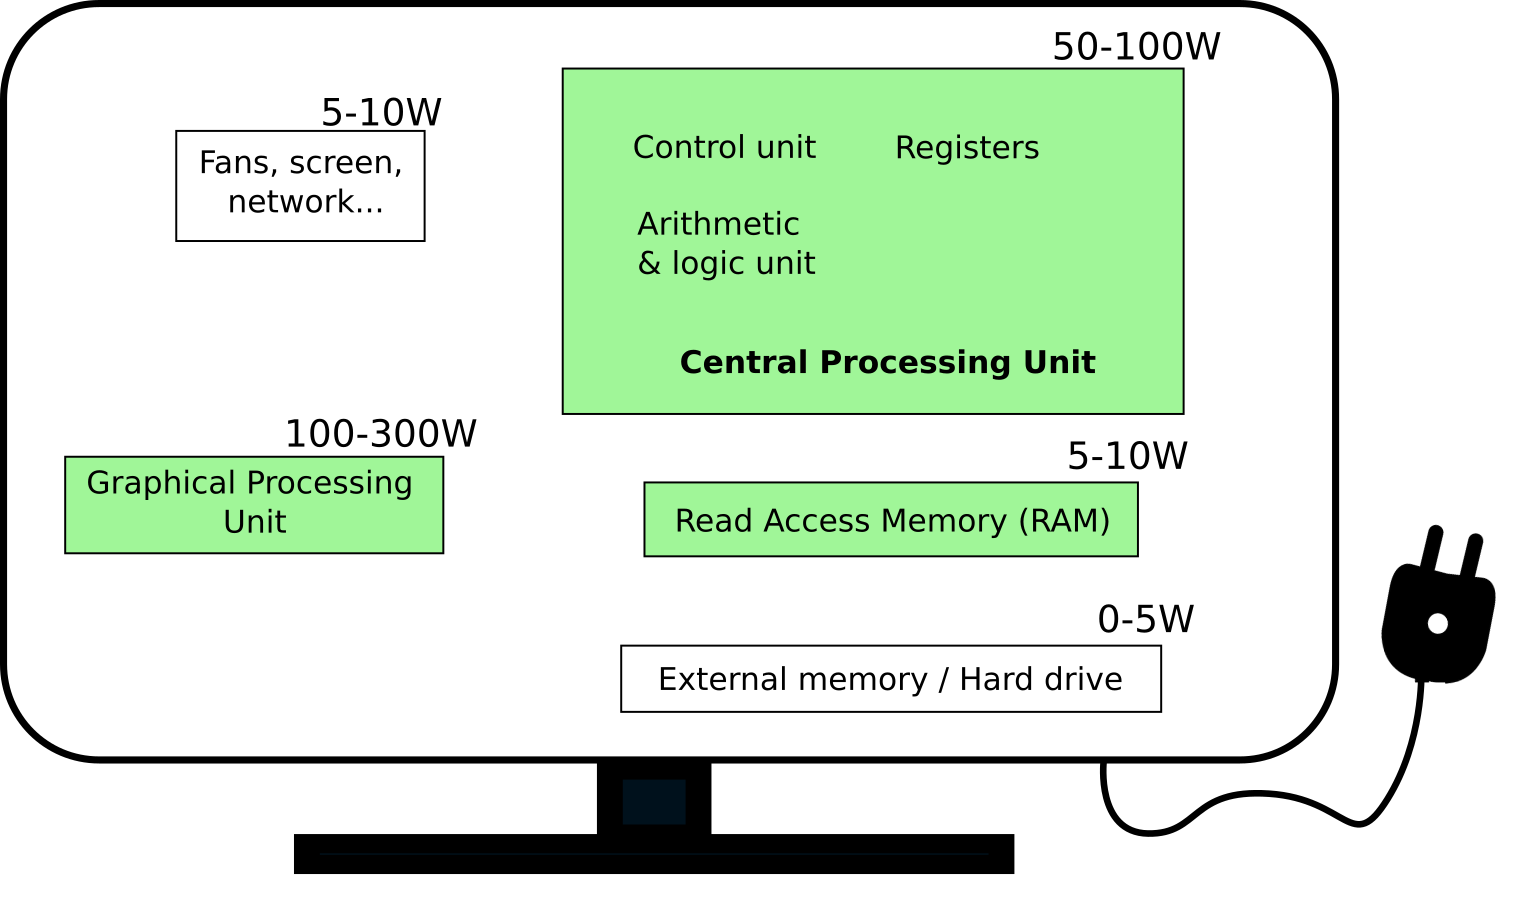
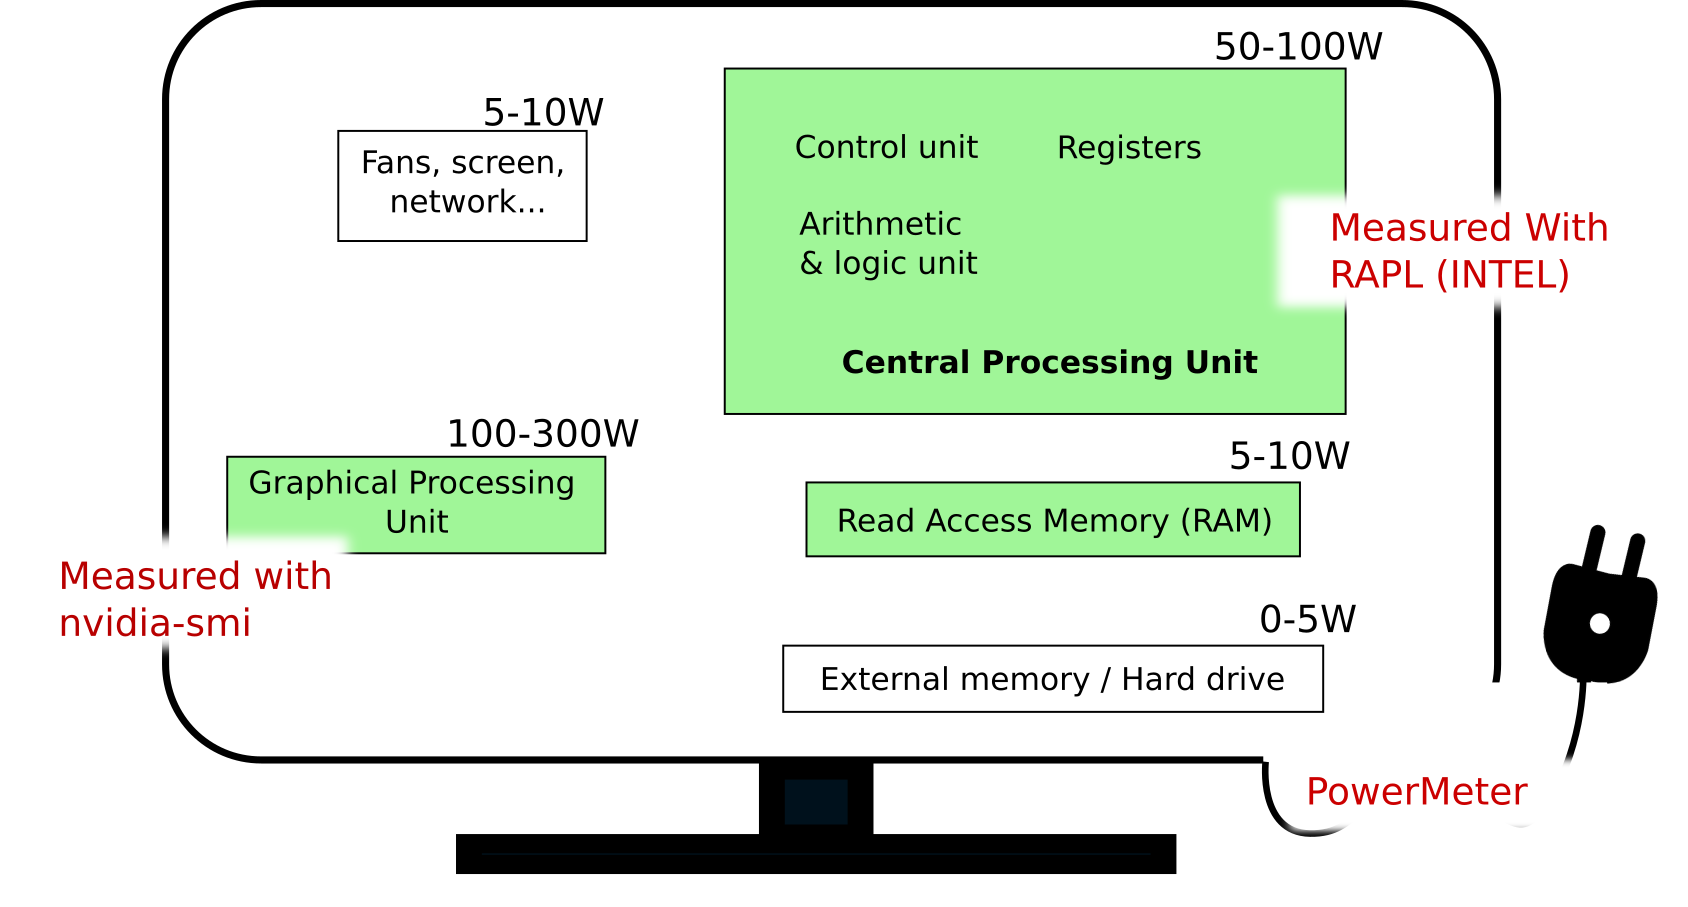
adding new image on background

diff --git a/docsrc/background/background.rst b/docsrc/background/background.rst
@@ -3,6 +3,8 @@ Background on power measure
 
 This section provide general information on monitoring power on computers.
 
+In short, RAPL measure the cpu, nvidia-smi the gpu, and other parts (fans, harddrive) are not accessible.
+
 General considerations
 ----------------------
 
@@ -63,7 +65,7 @@ GPU and nvidia-smi
 GPU are good for single instruction multiple data situations where they can parallelize on their numerous streaming processors
 
 
-Regardin power measurements, things are more simple with nvidia-smi, unfortunately, the reason for this is because we have much less information.
+Regarding power measurements, things are simple with nvidia-smi, unfortunately, part of the reason for this is because we have much less information than RAPL.
 from the man page of `nvidia-smi <https://man.archlinux.org/man/nvidia-utils/nvidia-smi.1.en>`_ : *The last measured power draw for the entire board, in watts. Only available if power management is supported. Please note that for boards without INA sensors, this refers to the power draw for the GPU and not for the entire board.*
 
 Still, nvidia provides us with the percentage of core memory used by each program for each GPU.
@@ -76,7 +78,7 @@ Measuring multiple programs
 
 In general, RAPL and nvidia provide us a power measurement for the whole board or entire sockets.  Thus, to take into account the energy consumed from each program, we adopt the approach implemented in the `experiment impact tracker <https://github.com/Breakend/experiment-impact-tracker>`_ and multiply the RAPL value by the percentage of cpu and memory used. 
 
-However, the energy consumed by programs is not exactly additive. For instance, the amount of Joules spent by two programs running on parallel and in sequence won't be the same. This is due to a fix energy waste, for instance coming from the idle state, and because the relation between the usage of the computer and the energy consumed is not linear, for instance, due to a time delay between the change of core use and the energy usage.
+However, the energy consumed by programs is not exactly additive. For instance, the amount of Joules spent by two programs running on parallel and in sequence won't be the same. This is due to a fix energy waste, for instance coming from the idle state, and because the relation between the usage of the computer and the energy consumed is not linear, for instance, due to a time delay between the change of core use and the energy usage. One approach, not implemented here, is to have a model, eventually build from profiling, which predicts the consumption based on the cpu clock time and gpu usage of the program. 
 
 In conclusion, we recommend to benchmark a program when it is running alone on the machine*.
 
@@ -90,5 +92,5 @@ In conclusion, we recommend to benchmark a program when it is running alone on t
 Related work on power meter libraries
 -------------------------------------
 
-There are several tools developed to monitor energy consumption of softwares, and the list is growing everyday, but most are based on RAPL and nvidia-smi. The `Performance Application Programming Interface <https://icl.utk.edu/papi/>`_ has a long history and is a very complete library to measure numerous aspects of a program run. `EnergyScope <https://sed-bso.gitlabpages.inria.fr/datacenter/energy_scope.html>` aims at measuring jobs energy consumption on data center, and among other features, get be integrated with slurm. `PowerAPI <https://github.com/powerapi-ng/powerapi>` is a complete greenit middleware developped by Inria. You can check `BoaVizta API <https://doc.api.boavizta.org/Explanations/impacts/>` for multi criterion analysis. In the specific field of AI and deep learning, serveral repostories such as `CodeCarbon <https://codecarbon.io/>`_, `CarbonTracker <https://github.com/lfwa/carbontracker/>`_ and `Experiment Impact Tracker <https://github.com/Breakend/experiment-impact-tracker>`_ propose to compute a carbon footprint of your experiment. The development of our own library has started as a fork of this latter project. It's aim is to focus on fine grained energy consumption of deep learning models. Stay tuned with the `Coca4AI <https://greenai-uppa.github.io/Coca4AI/>`_ for a measurement campaign at the scale of a data center. 
+There are several tools developed to monitor energy consumption of softwares, and the list is growing everyday, but most are based on RAPL and nvidia-smi. The `Performance Application Programming Interface <https://icl.utk.edu/papi/>`_ has a long history and is a very complete library to measure numerous aspects of a program run. `EnergyScope <https://sed-bso.gitlabpages.inria.fr/datacenter/energy_scope.html>` aims at measuring jobs energy consumption on data center, and among other features, get be integrated with slurm. `PowerAPI <https://github.com/powerapi-ng/powerapi>` is a complete greenit middleware developped by Inria. You can also check `BoaVizta API <https://doc.api.boavizta.org/Explanations/impacts/>` for multi criterion analysis. In the specific field of AI and deep learning, serveral repostories such as `CodeCarbon <https://codecarbon.io/>`_, `CarbonTracker <https://github.com/lfwa/carbontracker/>`_ and `Experiment Impact Tracker <https://github.com/Breakend/experiment-impact-tracker>`_ propose to compute a carbon footprint of your experiment. The development of our own library has started as a fork of this latter project. It's aim is to focus on fine grained energy consumption of deep learning models. Stay tuned with the `Coca4AI <https://greenai-uppa.github.io/Coca4AI/>`_ for a measurement campaign at the scale of a data center. 
 
